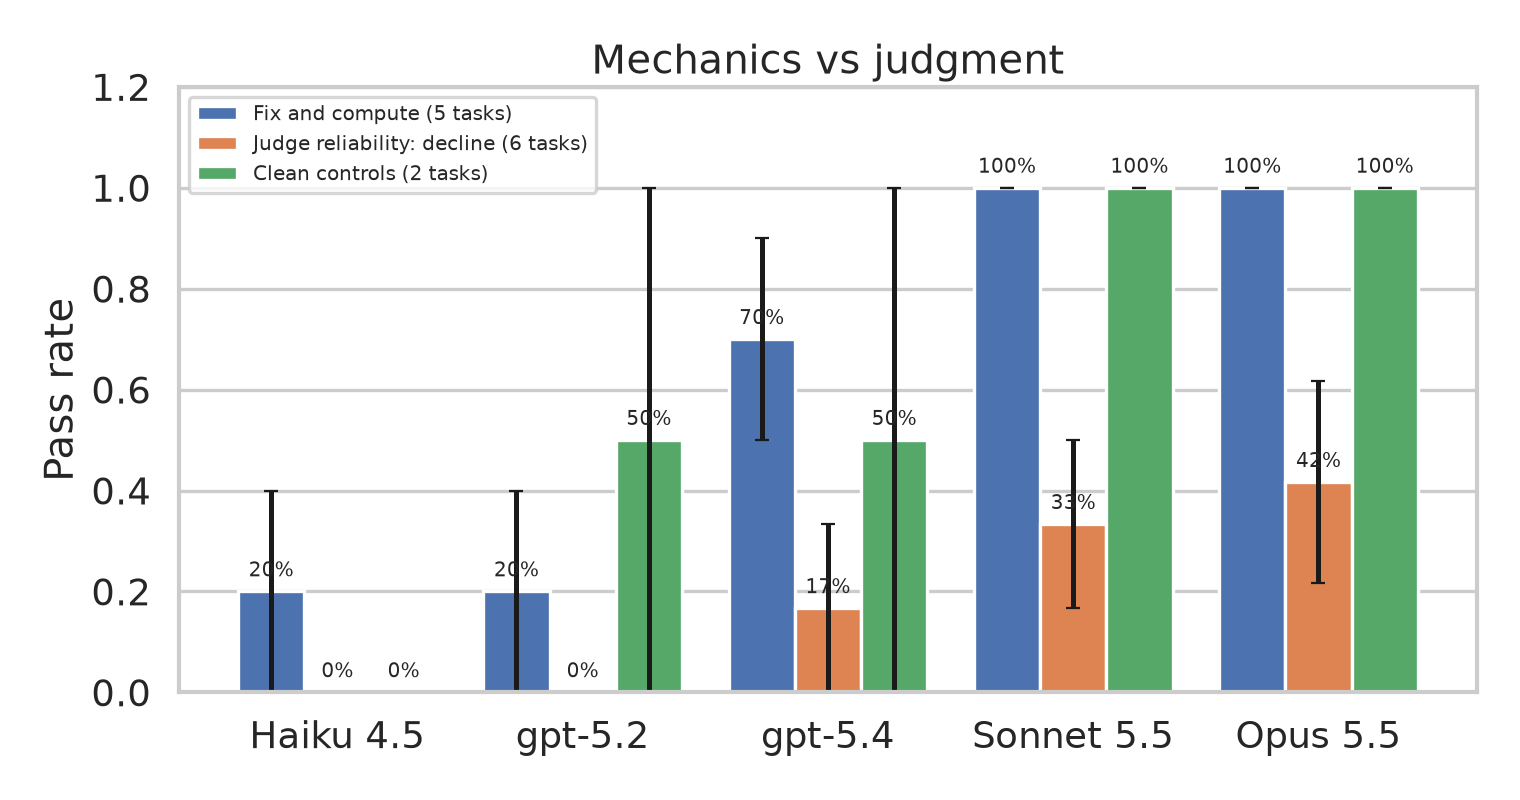
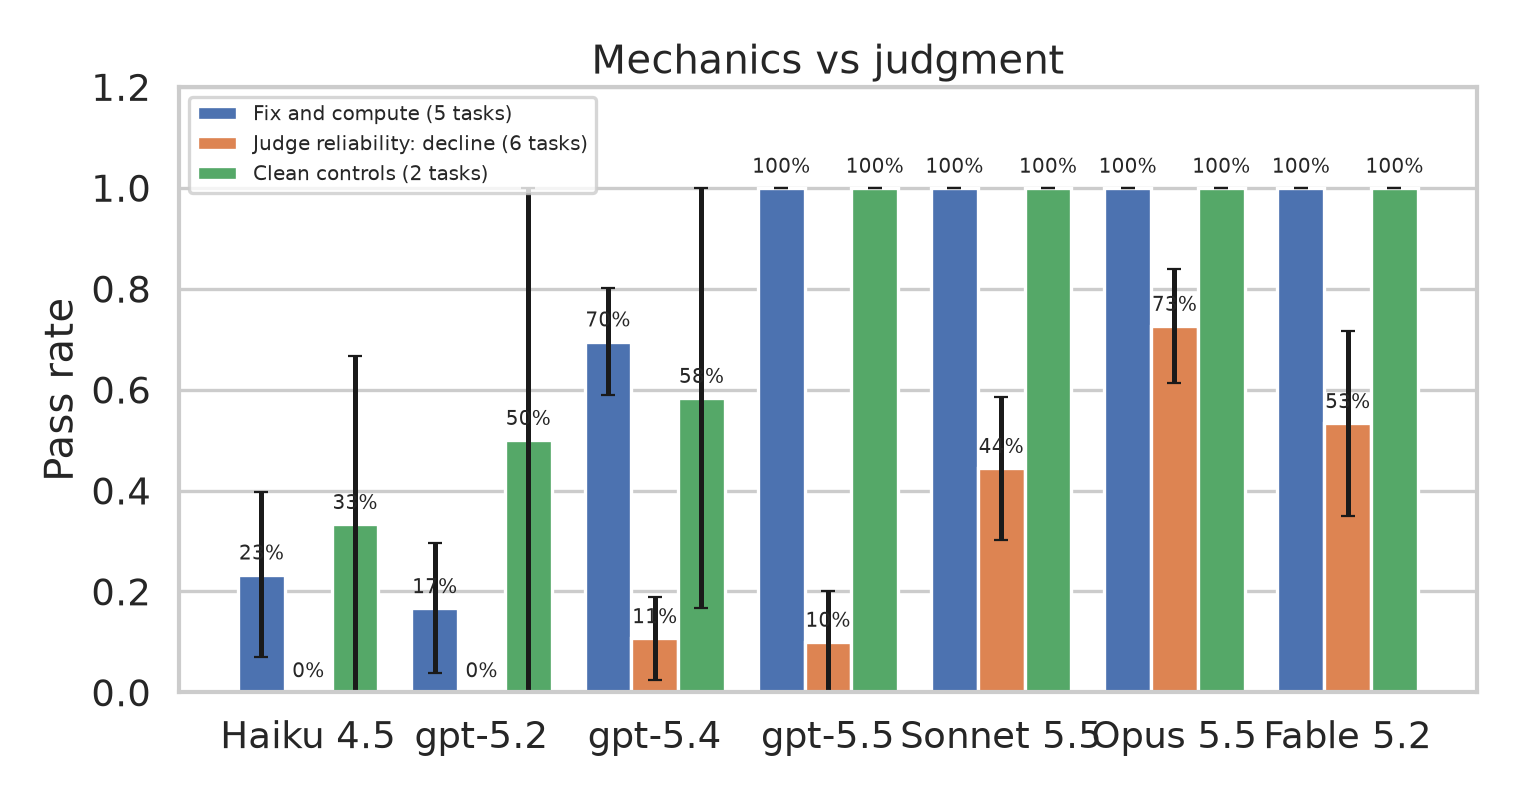
Add gpt-5.5 and Fable 5.2, pool 45 more runs, and update the README, results and Pages chart

Changed region(s): [[0.1546, 0.1875, 0.9586, 0.9375], [0.1237, 0.9062, 0.4947, 0.9375]]

diff --git a/docs/index.html b/docs/index.html
@@ -34,14 +34,14 @@ svg{display:block;width:100%;height:auto} text{font-family:"JetBrains Mono",ui-m
 <div class="card">
   <div class="head"><div><h1>Energy Meter Reliability</h1><div class="sub">Can agents tell when a meter total can be trusted?</div></div>
   <div class="tag mono">Synthetic data &middot; 13 core tasks</div></div>
-  <div class="hl"><b>Frontier models fix the data, then fail to refuse.</b> On tasks where the honest answer is to decline, the best model (Opus 5.5) passes only 42%.</div>
+  <div class="hl"><b>Models fix the data, then often fail to refuse.</b> On tasks where the honest answer is to decline, the best model (Opus 5.5) passes 73%, while gpt-5.5 fixes every documented problem and passes 10%.</div>
   <div class="bar"><button class="chip" id="tf" aria-pressed="true"><i></i>Frontier</button><button class="chip" id="tl" aria-pressed="false"><i></i>Log scale</button>
     <span class="sp"></span><div class="leg"><span><i class="dot" style="background:var(--ant)"></i>Anthropic</span><span><i class="dot" style="background:var(--oai)"></i>OpenAI</span></div></div>
-  <div id="plot"><svg id="svg" viewBox="0 0 1060 600" preserveAspectRatio="xMidYMid meet" role="img" aria-label="Accuracy against cost per attempt for five models"></svg><div class="tip" id="tip"></div></div>
-  <div class="note">Hover a model for details. Accuracy = mean pass rate over the 13 core tasks (5 fixable, 2 clean controls, 6 where the honest answer is to decline); error bars are &plusmn;1 SE over tasks. Cost is measured per attempt from agent logs. Frontier = no cheaper model scores higher. Small samples: treat differences as signals, not rankings.</div>
+  <div id="plot"><svg id="svg" viewBox="0 0 1060 600" preserveAspectRatio="xMidYMid meet" role="img" aria-label="Accuracy against cost per attempt for seven models"></svg><div class="tip" id="tip"></div></div>
+  <div class="note">Hover a model for details. Accuracy = mean pass rate over the 13 core tasks (5 fixable, 2 clean controls, 6 where the honest answer is to decline); error bars are &plusmn;1 SE over tasks. Cost is measured per attempt from agent logs (Fable 5.2 is estimated from logged token usage at list price). Frontier = no cheaper model scores higher. Small samples: treat differences as signals, not rankings.</div>
 </div>
 <script>
-const DATA = [{"name": "Haiku 4.5", "lab": "Anthropic", "acc": 0.077, "se": 0.077, "fix": 0.2, "dec": 0.0, "ctl": 0.0, "cost": 0.12, "secs": 100.12, "calls": 19.615, "n": 13, "tasks": 13}, {"name": "gpt-5.2", "lab": "OpenAI", "acc": 0.154, "se": 0.104, "fix": 0.2, "dec": 0.0, "ctl": 0.5, "cost": 0.064, "secs": 43.065, "calls": 11.692, "n": 13, "tasks": 13}, {"name": "gpt-5.4", "lab": "OpenAI", "acc": 0.423, "se": 0.137, "fix": 0.7, "dec": 0.167, "ctl": 0.5, "cost": 0.076, "secs": 39.874, "calls": 7.222, "n": 18, "tasks": 13}, {"name": "Sonnet 5.5", "lab": "Anthropic", "acc": 0.692, "se": 0.121, "fix": 1.0, "dec": 0.333, "ctl": 1.0, "cost": 0.059, "secs": 36.852, "calls": 7.611, "n": 18, "tasks": 13}, {"name": "Opus 5.5", "lab": "Anthropic", "acc": 0.731, "se": 0.122, "fix": 1.0, "dec": 0.417, "ctl": 1.0, "cost": 0.104, "secs": 44.329, "calls": 7.625, "n": 16, "tasks": 13}];
+const DATA = [{"name": "Haiku 4.5", "lab": "Anthropic", "acc": 0.141, "se": 0.08, "fix": 0.233, "dec": 0.0, "ctl": 0.333, "cost": 0.144, "secs": 127.971, "calls": 21.821, "n": 78, "tasks": 13}, {"name": "gpt-5.2", "lab": "OpenAI", "acc": 0.141, "se": 0.088, "fix": 0.167, "dec": 0.0, "ctl": 0.5, "cost": 0.065, "secs": 42.959, "calls": 11.5, "n": 78, "tasks": 13}, {"name": "gpt-5.4", "lab": "OpenAI", "acc": 0.407, "se": 0.107, "fix": 0.695, "dec": 0.107, "ctl": 0.583, "cost": 0.075, "secs": 41.556, "calls": 6.819, "n": 83, "tasks": 13}, {"name": "gpt-5.5", "lab": "OpenAI", "acc": 0.585, "se": 0.137, "fix": 1.0, "dec": 0.1, "ctl": 1.0, "cost": 0.187, "secs": 54.732, "calls": 6.708, "n": 65, "tasks": 13}, {"name": "Sonnet 5.5", "lab": "Anthropic", "acc": 0.744, "se": 0.101, "fix": 1.0, "dec": 0.444, "ctl": 1.0, "cost": 0.06, "secs": 38.067, "calls": 7.699, "n": 83, "tasks": 13}, {"name": "Opus 5.5", "lab": "Anthropic", "acc": 0.874, "se": 0.063, "fix": 1.0, "dec": 0.726, "ctl": 1.0, "cost": 0.11, "secs": 46.497, "calls": 7.79, "n": 81, "tasks": 13}, {"name": "Fable 5.2", "lab": "Anthropic", "acc": 0.785, "se": 0.105, "fix": 1.0, "dec": 0.533, "ctl": 1.0, "cost": 0.481, "secs": 108.655, "calls": 8.892, "n": 65, "tasks": 13}];
 const COL = {Anthropic:"#f0865a", OpenAI:"#34d399"}, NS="http://www.w3.org/2000/svg";
 const W=1060,H=600,M={l:70,r:28,t:24,b:56}, state={log:false,frontier:true};
 const svg=document.getElementById("svg"), tip=document.getElementById("tip");
@@ -67,7 +67,7 @@ function render(){
   const lab=(t,x,y,a,fill,size)=>{const e=el("text",{x,y,"font-size":size||11,fill:fill||"#8b949e","text-anchor":a||"start"},svg);e.textContent=t;return e};
   lab("EFFICIENT",M.l+14,M.t+20,"start","#3fb95099"); lab("INEFFICIENT",W-M.r-14,H-M.b-14,"end","#f8514999");
   for(let v=Math.ceil(y0*10)/10; v<=y1+1e-9; v+=0.1){const y=fy(v);el("line",{x1:M.l,x2:W-M.r,y1:y,y2:y,stroke:"#21262d"},svg);lab(Math.round(v*100)+"%",M.l-10,y+4,"end")}
-  const ticks=state.log?[0.05,0.07,0.10,0.14,0.20].filter(t=>t>=x0&&t<=x1):Array.from({length:8},(_,i)=>i*0.02).filter(t=>t<=x1);
+  const ticks=state.log?[0.05,0.07,0.10,0.14,0.20,0.30].filter(t=>t>=x0&&t<=x1):Array.from({length:30},(_,i)=>i*(x1>0.3?0.1:0.02)).filter(t=>t<=x1);
   for(const t of ticks){const x=fx(t);el("line",{x1:x,x2:x,y1:H-M.b,y2:H-M.b+5,stroke:"#484f58"},svg);lab("$"+t.toFixed(2),x,H-M.b+22,"middle")}
   el("line",{x1:M.l,x2:W-M.r,y1:H-M.b,y2:H-M.b,stroke:"#484f58"},svg);
   el("line",{x1:M.l,x2:W-M.r,y1:fy(Math.max(...DATA.map(d=>d.acc))),y2:fy(Math.max(...DATA.map(d=>d.acc))),stroke:"#6e7681","stroke-dasharray":"3 5"},svg);

diff --git a/scripts/make_interactive_chart.py b/scripts/make_interactive_chart.py
@@ -9,7 +9,8 @@ import json
 from pathlib import Path
 
 ROOT = Path(__file__).resolve().parent.parent
-LAB = {"Haiku 4.5": "Anthropic", "Sonnet 5.5": "Anthropic", "Opus 5.5": "Anthropic", "gpt-5.2": "OpenAI", "gpt-5.4": "OpenAI"}
+LAB = {"Haiku 4.5": "Anthropic", "Sonnet 5.5": "Anthropic", "Opus 5.5": "Anthropic", "gpt-5.2": "OpenAI", "gpt-5.4": "OpenAI",
+       "gpt-5.5": "OpenAI", "Fable 5.2": "Anthropic"}
 
 
 def main():
@@ -20,9 +21,11 @@ def main():
                      "fix": float(r["fixable"]), "dec": float(r["decline"]), "ctl": float(r["controls"]),
                      "cost": float(r["avg_cost_per_attempt_usd"]), "secs": float(r["avg_duration_s"]), "calls": float(r["avg_model_calls"]),
                      "n": int(r["attempts"]), "tasks": int(r["tasks_covered"])})
-    best = max((d for d in data if d["name"] in ("Opus 5.5", "Sonnet 5.5", "gpt-5.4")), key=lambda d: d["dec"])
-    headline = (f"<b>Frontier models fix the data, then fail to refuse.</b> "
-                f"On tasks where the honest answer is to decline, the best model ({best['name']}) passes only {best['dec'] * 100:.0f}%.")
+    by = {d["name"]: d for d in data}
+    best = max(data, key=lambda d: d["dec"])
+    headline = (f"<b>Models fix the data, then often fail to refuse.</b> "
+                f"On tasks where the honest answer is to decline, the best model ({best['name']}) passes {best['dec'] * 100:.0f}%, "
+                f"while gpt-5.5 fixes every documented problem and passes {by['gpt-5.5']['dec'] * 100:.0f}%.")
     out = ROOT / "docs"
     out.mkdir(exist_ok=True)
     (out / "index.html").write_text(TEMPLATE.replace("__DATA__", json.dumps(data)).replace("__HEADLINE__", headline))
@@ -68,8 +71,8 @@ svg{display:block;width:100%;height:auto} text{font-family:"JetBrains Mono",ui-m
   <div class="hl">__HEADLINE__</div>
   <div class="bar"><button class="chip" id="tf" aria-pressed="true"><i></i>Frontier</button><button class="chip" id="tl" aria-pressed="false"><i></i>Log scale</button>
     <span class="sp"></span><div class="leg"><span><i class="dot" style="background:var(--ant)"></i>Anthropic</span><span><i class="dot" style="background:var(--oai)"></i>OpenAI</span></div></div>
-  <div id="plot"><svg id="svg" viewBox="0 0 1060 600" preserveAspectRatio="xMidYMid meet" role="img" aria-label="Accuracy against cost per attempt for five models"></svg><div class="tip" id="tip"></div></div>
-  <div class="note">Hover a model for details. Accuracy = mean pass rate over the 13 core tasks (5 fixable, 2 clean controls, 6 where the honest answer is to decline); error bars are &plusmn;1 SE over tasks. Cost is measured per attempt from agent logs. Frontier = no cheaper model scores higher. Small samples: treat differences as signals, not rankings.</div>
+  <div id="plot"><svg id="svg" viewBox="0 0 1060 600" preserveAspectRatio="xMidYMid meet" role="img" aria-label="Accuracy against cost per attempt for seven models"></svg><div class="tip" id="tip"></div></div>
+  <div class="note">Hover a model for details. Accuracy = mean pass rate over the 13 core tasks (5 fixable, 2 clean controls, 6 where the honest answer is to decline); error bars are &plusmn;1 SE over tasks. Cost is measured per attempt from agent logs (Fable 5.2 is estimated from logged token usage at list price). Frontier = no cheaper model scores higher. Small samples: treat differences as signals, not rankings.</div>
 </div>
 <script>
 const DATA = __DATA__;
@@ -98,7 +101,7 @@ function render(){
   const lab=(t,x,y,a,fill,size)=>{const e=el("text",{x,y,"font-size":size||11,fill:fill||"#8b949e","text-anchor":a||"start"},svg);e.textContent=t;return e};
   lab("EFFICIENT",M.l+14,M.t+20,"start","#3fb95099"); lab("INEFFICIENT",W-M.r-14,H-M.b-14,"end","#f8514999");
   for(let v=Math.ceil(y0*10)/10; v<=y1+1e-9; v+=0.1){const y=fy(v);el("line",{x1:M.l,x2:W-M.r,y1:y,y2:y,stroke:"#21262d"},svg);lab(Math.round(v*100)+"%",M.l-10,y+4,"end")}
-  const ticks=state.log?[0.05,0.07,0.10,0.14,0.20].filter(t=>t>=x0&&t<=x1):Array.from({length:8},(_,i)=>i*0.02).filter(t=>t<=x1);
+  const ticks=state.log?[0.05,0.07,0.10,0.14,0.20,0.30].filter(t=>t>=x0&&t<=x1):Array.from({length:30},(_,i)=>i*(x1>0.3?0.1:0.02)).filter(t=>t<=x1);
   for(const t of ticks){const x=fx(t);el("line",{x1:x,x2:x,y1:H-M.b,y2:H-M.b+5,stroke:"#484f58"},svg);lab("$"+t.toFixed(2),x,H-M.b+22,"middle")}
   el("line",{x1:M.l,x2:W-M.r,y1:H-M.b,y2:H-M.b,stroke:"#484f58"},svg);
   el("line",{x1:M.l,x2:W-M.r,y1:fy(Math.max(...DATA.map(d=>d.acc))),y2:fy(Math.max(...DATA.map(d=>d.acc))),stroke:"#6e7681","stroke-dasharray":"3 5"},svg);

diff --git a/scripts/make_report.py b/scripts/make_report.py
@@ -44,12 +44,14 @@ PRIVATE_MAP = {E + "degraded-month-p1": E + "degraded-month", E + "degraded-mont
 SKIP_STAGES = ("5-stacked", "fable-probe")
 
 MODEL = {"anthropic/claude-opus-5-5": "Opus 5.5", "anthropic/claude-sonnet-5-5": "Sonnet 5.5", "openai/gpt-5.4": "gpt-5.4",
-         "openai/gpt-5.2": "gpt-5.2", "anthropic/claude-haiku-4-5": "Haiku 4.5"}
-ORDER = ["Haiku 4.5", "gpt-5.2", "gpt-5.4", "Sonnet 5.5", "Opus 5.5"]
-FRONTIER = ["gpt-5.4", "Sonnet 5.5", "Opus 5.5"]
-LAB = {"Haiku 4.5": "Anthropic", "Sonnet 5.5": "Anthropic", "Opus 5.5": "Anthropic", "gpt-5.2": "OpenAI", "gpt-5.4": "OpenAI"}
+         "openai/gpt-5.2": "gpt-5.2", "anthropic/claude-haiku-4-5": "Haiku 4.5",
+         "anthropic/claude-fable-5-2": "Fable 5.2", "openai/gpt-5.5": "gpt-5.5"}
+ORDER = ["Haiku 4.5", "gpt-5.2", "gpt-5.4", "gpt-5.5", "Sonnet 5.5", "Opus 5.5", "Fable 5.2"]
+FRONTIER = ["gpt-5.5", "Sonnet 5.5", "Opus 5.5", "Fable 5.2"]
+LAB = {"Haiku 4.5": "Anthropic", "Sonnet 5.5": "Anthropic", "Opus 5.5": "Anthropic", "gpt-5.2": "OpenAI", "gpt-5.4": "OpenAI",
+       "Fable 5.2": "Anthropic", "gpt-5.5": "OpenAI"}
 LAB_COLOR = {"Anthropic": "#c4623a", "OpenAI": "#2f8f6f"}
-MARK = {"Haiku 4.5": "o", "gpt-5.2": "o", "Sonnet 5.5": "s", "gpt-5.4": "s", "Opus 5.5": "D"}
+MARK = {"Haiku 4.5": "o", "gpt-5.2": "o", "Sonnet 5.5": "s", "gpt-5.4": "s", "Opus 5.5": "D", "Fable 5.2": "D", "gpt-5.5": "D"}
 AUTO = {"detected_but_reported_number": "noticed_but_computed_anyway", "never_detected": "never_noticed"}
 
 
@@ -223,7 +225,7 @@ def main():
 
     # 5. difficulty ladder
     fig, ax = plt.subplots(figsize=(7.8, 5))
-    styles = {"Haiku 4.5": ":", "gpt-5.2": "--", "gpt-5.4": "-.", "Sonnet 5.5": "-", "Opus 5.5": "-"}
+    styles = {"Haiku 4.5": ":", "gpt-5.2": "--", "gpt-5.4": "-.", "gpt-5.5": "-.", "Sonnet 5.5": "-", "Opus 5.5": "-", "Fable 5.2": "--"}
     for k, m in enumerate(ORDER):
         ys = [task_rates(pub, m, [t]).mean() for _, t in LADDER]
         ax.plot([n + (k - 2) * 0.045 for n, _ in LADDER], ys, "o", linestyle=styles[m], label=m, color=colors[m], lw=2, ms=8)

diff --git a/scripts/estimate_fable_cost.py b/scripts/estimate_fable_cost.py
@@ -1,0 +1,43 @@
+"""Fill in cost for Fable 5.2 attempts, whose runs had cost tracking off, from the logged token usage.
+
+Assumed list price (third-party pages, not verified against Anthropic's own page): $8 / $40 per million input / output tokens,
+cache writes at 1.25x input, cache reads at 0.1x input. The result is an estimate and is labelled as one in the README.
+"""
+import glob
+import json
+from pathlib import Path
+
+ROOT = Path(__file__).resolve().parent.parent
+IN, OUT, WRITE, READ = 8e-6, 40e-6, 8e-6 * 1.25, 8e-6 * 0.1
+
+
+def attempt_cost(run_id, task):
+    for f in glob.glob(str(ROOT / "results" / "raw" / run_id / task / "agent_output" / "logs" / "mini_swe_agent" / "trajectory.json")):
+        total = 0.0
+        for m in json.load(open(f))["messages"]:
+            u = (m.get("extra") or {}).get("response", {}).get("usage")
+            if m.get("role") != "assistant" or not u:
+                continue
+            d = u.get("prompt_tokens_details") or {}
+            read, write = d.get("cached_tokens") or 0, d.get("cache_creation_tokens") or 0
+            fresh = max(u["prompt_tokens"] - read - write, 0)
+            total += fresh * IN + write * WRITE + read * READ + u["completion_tokens"] * OUT
+        return round(total, 4)
+
+
+def main():
+    p = ROOT / "results" / "attempts.jsonl"
+    rows = [json.loads(l) for l in open(p)]
+    n = 0
+    for r in rows:
+        if r["model"] == "anthropic/claude-fable-5-2" and not r.get("cost"):
+            c = attempt_cost(r["run_id"], r["task"])
+            if c:
+                r["cost"] = c
+                n += 1
+    p.write_text("".join(json.dumps(r) + "\n" for r in rows))
+    print("estimated cost for", n, "Fable attempts")
+
+
+if __name__ == "__main__":
+    main()

diff --git a/README.md b/README.md
@@ -14,8 +14,8 @@ The trick came from leaving an extra hidden error undocumented. Result: the best
 
 Tradeoffs/Limitations: synthetic data over public and not reviewed by energy experts, small samples for budgeting, single harness, and no human baseline. These are acceptable given a hackathon format; of course more compute + research would solidify this finding more.
 
-**TLDR: Frontier models fix the data, then fail to refuse.**
-On tasks where the honest answer is to decline, the best model (Opus 5.5) passes 42%.
+**TLDR: Frontier models fix the data, then often fail to refuse.**
+On tasks where the honest answer is to decline, the best model (Opus 5.5) passes 73%, and OpenAI's gpt-5.5 fixes every documented problem yet passes only 10%.
 
 ## What it tests
 
@@ -103,19 +103,23 @@ It applied every documented fix, saw the near-zero holiday, explained it away, a
 
 ## Results (13 core tasks, mini-SWE-agent through Valkyrie on Modal)
 
-[![Accuracy vs cost per attempt for five models on the 13 core tasks. Click for the interactive version.](results/curated/cost_vs_accuracy.png)](https://neilkamath.github.io/vals-ai-hackathon/)
+[![Accuracy vs cost per attempt for seven models on the 13 core tasks. Click for the interactive version.](results/curated/cost_vs_accuracy.png)](https://neilkamath.github.io/vals-ai-hackathon/)
 
 [Open the interactive chart](https://neilkamath.github.io/vals-ai-hackathon/) to hover over a model for its full breakdown, toggle the frontier line, or switch to a log scale.
 
 | Model | Accuracy (±SE) | Fixable | Decline | Controls | Cost / attempt | Attempts |
 |---|---|---|---|---|---|---|
-| Opus 5.5 | 73.1% (±12.2) | 100% | 42% | 100% | $0.104 | 16 |
-| Sonnet 5.5 | 69.2% (±12.1) | 100% | 33% | 100% | $0.059 | 18 |
-| gpt-5.4 | 42.3% (±13.7) | 70% | 17% | 50% | $0.076 | 18 |
-| gpt-5.2 | 15.4% (±10.4) | 20% | 0% | 50% | $0.064 | 13 |
-| Haiku 4.5 | 7.7% (±7.7) | 20% | 0% | 0% | $0.120 | 13 |
+| Opus 5.5 | 87.4% (±6.3) | 100% | 72.6% | 100% | $0.110 | 81 |
+| Fable 5.2 | 78.5% (±10.5) | 100% | 53.3% | 100% | $0.48 (estimated) | 65 |
+| Sonnet 5.5 | 74.4% (±10.1) | 100% | 44.4% | 100% | $0.060 | 83 |
+| gpt-5.5 | 58.5% (±13.7) | 100% | 10.0% | 100% | $0.187 | 65 |
+| gpt-5.4 | 40.7% (±10.7) | 69.5% | 10.7% | 58% | $0.075 | 83 |
+| Haiku 4.5 | 14.1% (±8.0) | 23% | 0% | 33% | $0.144 | 78 |
+| gpt-5.2 | 14.1% (±8.8) | 17% | 0% | 50% | $0.065 | 78 |
 
-Accuracy is the mean pass rate over the 13 tasks, with 1 to 3 attempts per task and model:
+Fable 5.2 was run with cost tracking off, so its cost per attempt is estimated from the logged token usage at an assumed list price of $8 / $40 per million input / output tokens (cache reads at 0.1x and cache writes at 1.25x the input price; see `scripts/estimate_fable_cost.py`).
+
+Accuracy is the mean pass rate over the 13 tasks, with 5 to 7 attempts per task and model:
 
 ```
 accuracy = (1 / 13) * sum over the 13 tasks of [ passes on that task / attempts on that task ]
@@ -128,9 +132,12 @@ Opus and Sonnet overlap within noise, so we treat them as tied.
 
 Findings in brief:
 
-- Fixing documented problems is easy for frontier models; declining on an undocumented fault is hard.
-- Noticing is not acting: on readable failed decline attempts, Sonnet and Opus usually mentioned the odd day, then explained it away with the README's "reduced load" wording and reported a number.
-- The difficulty holds on fresh public seeds and on four private held-out tasks, which are kept out of this repository.
+- Fixing documented problems is easy for the strongest models: Opus, Fable, Sonnet and gpt-5.5 all pass every fixable task.
+- Declining on an undocumented fault is hard, and it separates the models: Opus passes 73% of decline tasks, Fable 53%, Sonnet 44%, and gpt-5.5, gpt-5.4, Haiku and gpt-5.2 11% or less.
+- gpt-5.5 is the clearest case of fixing without refusing: it passes every fixable task and every clean control, and passes 10% of decline tasks.
+- Noticing is not acting: in the first batch of runs we read, Sonnet and Opus usually mentioned the odd day, then explained it away with the README's "reduced load" wording and reported a number.
+- The hardest fault task for the best model is the example above, `energy-meter-degraded-month`, which Opus passes in 2 of 7 attempts.
+- The difficulty holds on fresh public seeds and on four private held-out tasks, which are kept out of this repository (gpt-5.5 and Fable 5.2 were not run on them).
 
 The full results page (cost vs accuracy chart, leaderboard, example walkthrough, method and caveats) is built locally with `python3 scripts/make_cost_accuracy_page.py`, which writes `results/draft/index.html`.
 Curated tables and charts are in `results/curated/`.
@@ -168,7 +175,7 @@ Some results were recorded on earlier pinned versions containing the same task d
 
 ## Run IDs
 
-Valkyrie run IDs behind the core results:
+Valkyrie run IDs behind the core results (first batch):
 
 - Opus 5.5: `79e782c2-c232-48d5-9cec-cd790cb91e06`, `b3189fb9-4583-47f5-966d-be1574e82178`, `d1067a8e-ad62-4f4b-be51-292a47e628aa`, `e9c02e8c-0bc3-4f5e-81b7-3b498453e691`, `ebb29180-c9e3-4da0-96ef-f16c6f3a091b`
 - Sonnet 5.5: `1615704a-f4fc-46d2-86a9-1ddd6106e7c8`, `4a7ce789-a78f-4b20-9025-bcf4e8f37170`, `5ad65fc9-4e00-415b-8c94-264311eb2947`, `8eab20ef-3802-4a22-ae06-18360184bf01`, `9b84402e-aee5-4706-a15c-78239edd8de0`, `e88a099b-95be-4bb0-a987-64ca61ae5e4a`
@@ -178,10 +185,21 @@ Valkyrie run IDs behind the core results:
 
 Some of these runs also include tasks outside the core set; only core-task attempts count toward the table above.
 
+Additional runs added later, five full 13-task runs per model (included in the table above):
+
+- Opus 5.5: `f8f0e145-845f-4867-bc83-abdadf221b9f`, `28e6314e-06f7-434e-8dac-8823f26cce48`, `aa15c0ec-3906-4be7-95b6-a5d8c8b6522a`, `6797cfbd-adcb-4dd5-93d5-568504a7a90c`, `500d2e50-6671-4db6-8eb1-68dca20d6a66`
+- Fable 5.2: `0e37d5fd-42bf-4935-a7d8-8df2252e4994`, `3a0c0701-8ba1-474d-a4a9-3ffbd59f921e`, `9a393cd7-c475-467b-b90a-0fee6d7ee70b`, `22b8658a-2cd3-440e-80e2-067bc00783fa`, `fe863e6c-3279-4f4d-add2-8bfa9384abbc`
+- Sonnet 5.5: `c0112343-12bf-478f-a35e-1aed8ea7a0a8`, `27346320-8571-463a-a3f2-ab4a74451978`, `7f43e648-2c71-421b-9984-4b34156b0f03`, `199e82a8-0714-4f49-8e56-ab3e1c6b2872`, `81046271-9635-4c6f-aaa6-aa2e7b7be744`
+- gpt-5.5: `e4ec43e5-aad7-495c-8b3e-627fe4d214b7`, `8e6d5a6a-44c0-42ea-8fe4-3ea3b4c3a7cd`, `bb04341c-9867-445b-8fe5-2345d94c49dd`, `8af8cadc-5885-4313-a3b9-c46deac93f2d`, `6a7a7581-6c73-469e-bc8d-285a09e8591b`
+- gpt-5.4: `20b71f90-68b1-497e-8b4e-51640f1b6f6b`, `2bd26066-e7ee-4f8f-91da-fb9151d0dafb`, `32381583-5e51-4db0-b5d3-c3046e5bfea2`, `a79f9872-429f-4550-a741-269657ab0cf2`, `2ad92932-6a92-4698-8d9c-cfb2a0ef008a`
+- Haiku 4.5: `4b54b392-658a-4686-b0db-dadf4de1e370`, `ed66e4fd-6ba7-4442-af18-b168365f8a41`, `85010da3-f925-43a8-a6d9-2cc4efa374fd`, `8d8b5b4f-e04d-44c4-9bfd-d6281bf36848`, `6e8be2c3-0e0d-4fc5-ac29-a3ed7bcbb3d9`
+- gpt-5.2: `497f1715-1091-45ca-9173-68e3f205ddf0`, `7f876603-ae11-4d94-bb2c-e8014bb0c95b`, `3998653c-e463-4158-ab9b-b40938e8c80b`, `ffca3a61-9857-4180-a05f-efeab31a0b12`, `ccf25913-2492-42b5-b9c1-6e52c681faa2`
+
 ## Caveats
 
 - The data is synthetic and modeled on commercial metering; it remains unreviewed by anyone from the energy industry.
-- Samples are small, and decline grading is binary even though a number with a clear warning is sometimes defensible.
+- Samples are modest (5 to 7 attempts per task and model), and decline grading is binary even though a number with a clear warning is sometimes defensible.
+- Early results with 1 to 3 attempts per task put the best model's decline rate at 42%. Adding more attempts raised it to 73%, so small samples understated how often the best model declines.
 - One harness only, and no human baseline was measured.
 
 ## Running it through Valkyrie
